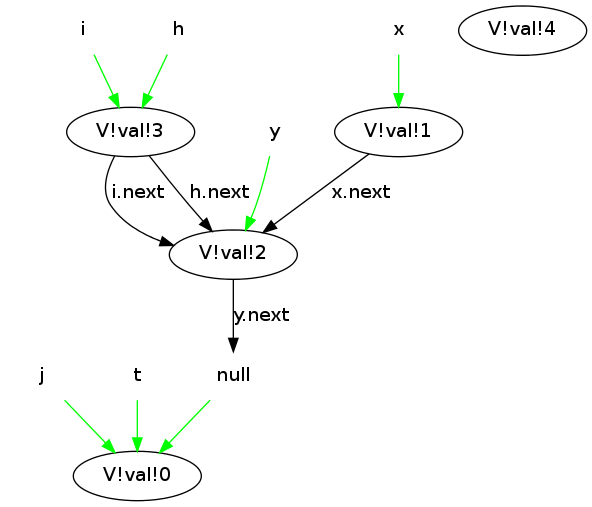
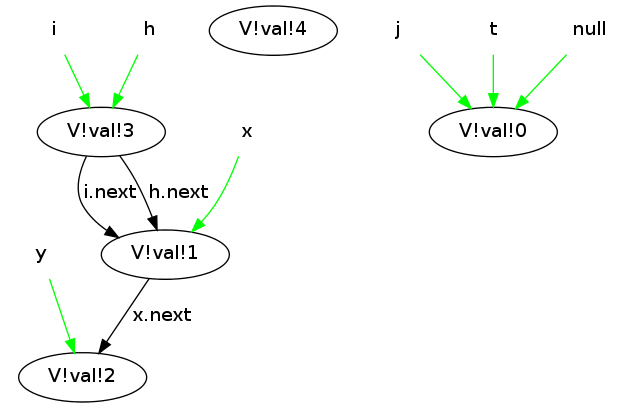
fixed x:=y.next

diff --git a/src/opSemantics.py b/src/opSemantics.py
@@ -16,8 +16,7 @@ def general_stmt(stmt,state):
         comma_stmt(stmt,state)
     else:
         print 'Graph Before statement:', stmt
-        draw_graph( 'file1', state )
-        raw_input("Press Enter to continue...")
+        draw_graph( 'file1', state )        
         
         if curStmt == 'x:=y':
             ass_stmt(stmt,state)
@@ -94,12 +93,10 @@ def ass_new_ptr(stmt,state):
     # map x to node
     interpretation_set(state, x, concrete_intp )
     
-            
-    
         
 def p_next_plus(state,n_ptr,s,t):    
-    rel_st =  nstar_pointer_value_get(state,s,t)    
-    is_eq  =  is_equal_intrepretation(state,s,t)
+    rel_st =  nstar_concrete_value_get(state, s, t)        
+    is_eq  =  is_same_concrete_node(state,s,t)
     result =  rel_st and (not is_eq)
     return result 
 
@@ -110,41 +107,43 @@ def p_next_plus(state,n_ptr,s,t):
 def p_next(state,n_ptr,s,t):    
     result      =  p_next_plus(state,n_ptr,s,t)
     if result:
-        rvars       = state_all_real_vars_get(state)
+        c_nodes   =  concrete_nodes_get(state)
         #print 's and t are different' , rvars, s ,t 
-        for gamma in rvars:
+        for gamma in c_nodes:
             lhs       =  p_next_plus(state,n_ptr,s,gamma)
-            rhs       =  nstar_pointer_value_get(state,gamma,t)            
+            rhs       =  nstar_concrete_value_get(state,t,gamma)            
             lhs_implies_rhs = (not lhs) or rhs
             result    = result and lhs_implies_rhs                   
             if not result:
-                print 'for s=',s,'t-is not the minimal node=',t,'gamma=',gamma                
+                #print lhs,rhs, lhs_implies_rhs, result
+                #print 'for s=',s,'t-is not the minimal node=',t,'gamma=',gamma                
                 return False
-            else:
-                print 'passed for s=',s,'t-is minimal node=',t,'gamma=',gamma
+            #else:
+                #print 'passed for s=',s,'t-is minimal node=',t,'gamma=',gamma                
         return True
     return False
 
 
 
-def next_node_get(y,n_ptr,state):
+def next_concrete_node_get(y,n_ptr,state):
     #y     = stmt.subtrees[1].root
     #n_ptr = stmt.subtrees[2].root
 #    if (y == 'i') |  (y == 'h'):
 #        raw_input("DEbug...")
-        
     if is_equal_intrepretation(state, y, 'null'):
-        print 'GOT HERE!'
+        print 'Variable',y,' is pointing to null.'
         return None
+    
+    cy = interpretation_get(state, y)    
         
-    print 'next_node_get', y, n_ptr
-    rvars  = state_all_real_vars_get(state)
-    for alpha in rvars:        
-        is_minimal = p_next(state,n_ptr,y,alpha)
+    #print 'next_node_get of ', y, cy
+    c_nodes  = concrete_nodes_get(state)
+    for alpha in c_nodes:        
+        is_minimal = p_next(state,n_ptr,cy,alpha)
         #please note that their could be only **one** alpha that is true
         if is_minimal:
             #copy_relation_values(state,n_ptr,alpha,x)
-            print 'found minimal, y=',y,'alpha=',alpha    
+            #print 'found minimal for cy=',cy,'. Minimal is alpha=',alpha    
             return alpha
 #    if (y == 'i') |  (y == 'h'):
 #        raw_input("DEbug End...")        
@@ -155,20 +154,17 @@ def next_node_get(y,n_ptr,state):
 #then we find the minimal var among them - e.g the one
 #who is not reachable by others.
 def rhs_next_ptr_stmt(stmt,state):
-    print 'rhs_next_ptr_stmt', stmt
+    #print 'rhs_next_ptr_stmt', stmt
     x     = stmt.subtrees[0].root
     y     = stmt.subtrees[1].root    
     n_ptr = nstar_relation_name_get()
-    alpha = next_node_get( y,n_ptr,state )
+    alpha = next_concrete_node_get( y,n_ptr,state )
     #print x,y,alpha
     if alpha != None:    
-        copy_relation_values(state,n_ptr,alpha,x)
-        
-        alpha_intp = interpretation_get(state,alpha)
-        interpretation_set(state,x,alpha_intp)
+        interpretation_set(state,x,alpha)
         
     else:
-        print 'Next node not existent ', x, alpha
+        print 'rhs_next_ptr_stmt: Next node is null ', x, alpha
                                 
 
 # x.next := null
@@ -208,7 +204,7 @@ def lhs_next_ptr_ass_stmt(stmt,state):
     yc   = interpretation_get(state, y)
     
     if n_yx:        
-        print stmt, 'Closing circle! state is:' , state
+        print stmt, 'lhs_next_ptr_ass_stmt: Closing circle! Exiting. state is:' , state
         raise SystemExit    
     for r in rel:
         a = r[0]
@@ -224,27 +220,7 @@ def get_state(state,relation_name,key):
     #print 'n*:', key, rel[key]
     return rel[key]    
     
-    
-# n(a,b) = n[a][b] = true\false    
-def update_state(state,relation_name,value,*args):
-    rel = state[relation_name]
-    rel[args] = value    
-    print 'updated', rel, args, 'to', value
-    
-                
-def copy_relation_values(state,rel_name,from_v,to_v):
-    print 'copy rel values', rel_name,from_v,to_v
-    rel = state[rel_name]
-    for r in rel:
-        s = r[0]
-        t = r[1]
-        if s == from_v:
-            to = to_v, t
-            rel[to] = rel[r]
-        elif t == from_v:
-            to = s, to_v
-            rel[to] = rel[r]
-                                    
+  
 
 #--------------------------------------
 #  Relations API
@@ -336,12 +312,16 @@ def interpretation_set(state,x,p):
 # TODO: create new interpretation in case of x:=new
 
     
+
+def is_same_concrete_node(state,intrp_x,intrp_y):
+    return intrp_x == intrp_y
+
 #returns true iff concrete interpretation of x
 #equal concrete interpretation of y
 def is_equal_intrepretation(state,x,y):
     intrp_x = interpretation_get(state,x)
     intrp_y = interpretation_get(state,y)
-    return intrp_x == intrp_y
+    return is_same_concrete_node(state,intrp_x,intrp_y)
 
 
 def concrete_nodes_get(state):

diff --git a/src/concrete_graph.py b/src/concrete_graph.py
@@ -6,15 +6,12 @@ from pygraphviz import *
 def next_edge_get(state,ptr):
     var_map   =   state['map']
      
-    from opSemantics import next_node_get
+    from opSemantics import next_concrete_node_get
     from opSemantics import nstar_relation_name_get
     n_ptr = nstar_relation_name_get()    
-    next_node = next_node_get(ptr,n_ptr, state)
+    next_node = next_concrete_node_get(ptr,n_ptr, state)
     print 'next_edge_get', ptr,next_node
-    if next_node != None:
-        return var_map[next_node]
-    else:
-        return 'null'
+    return next_node
         
 
 def draw_graph(prefix, state):
